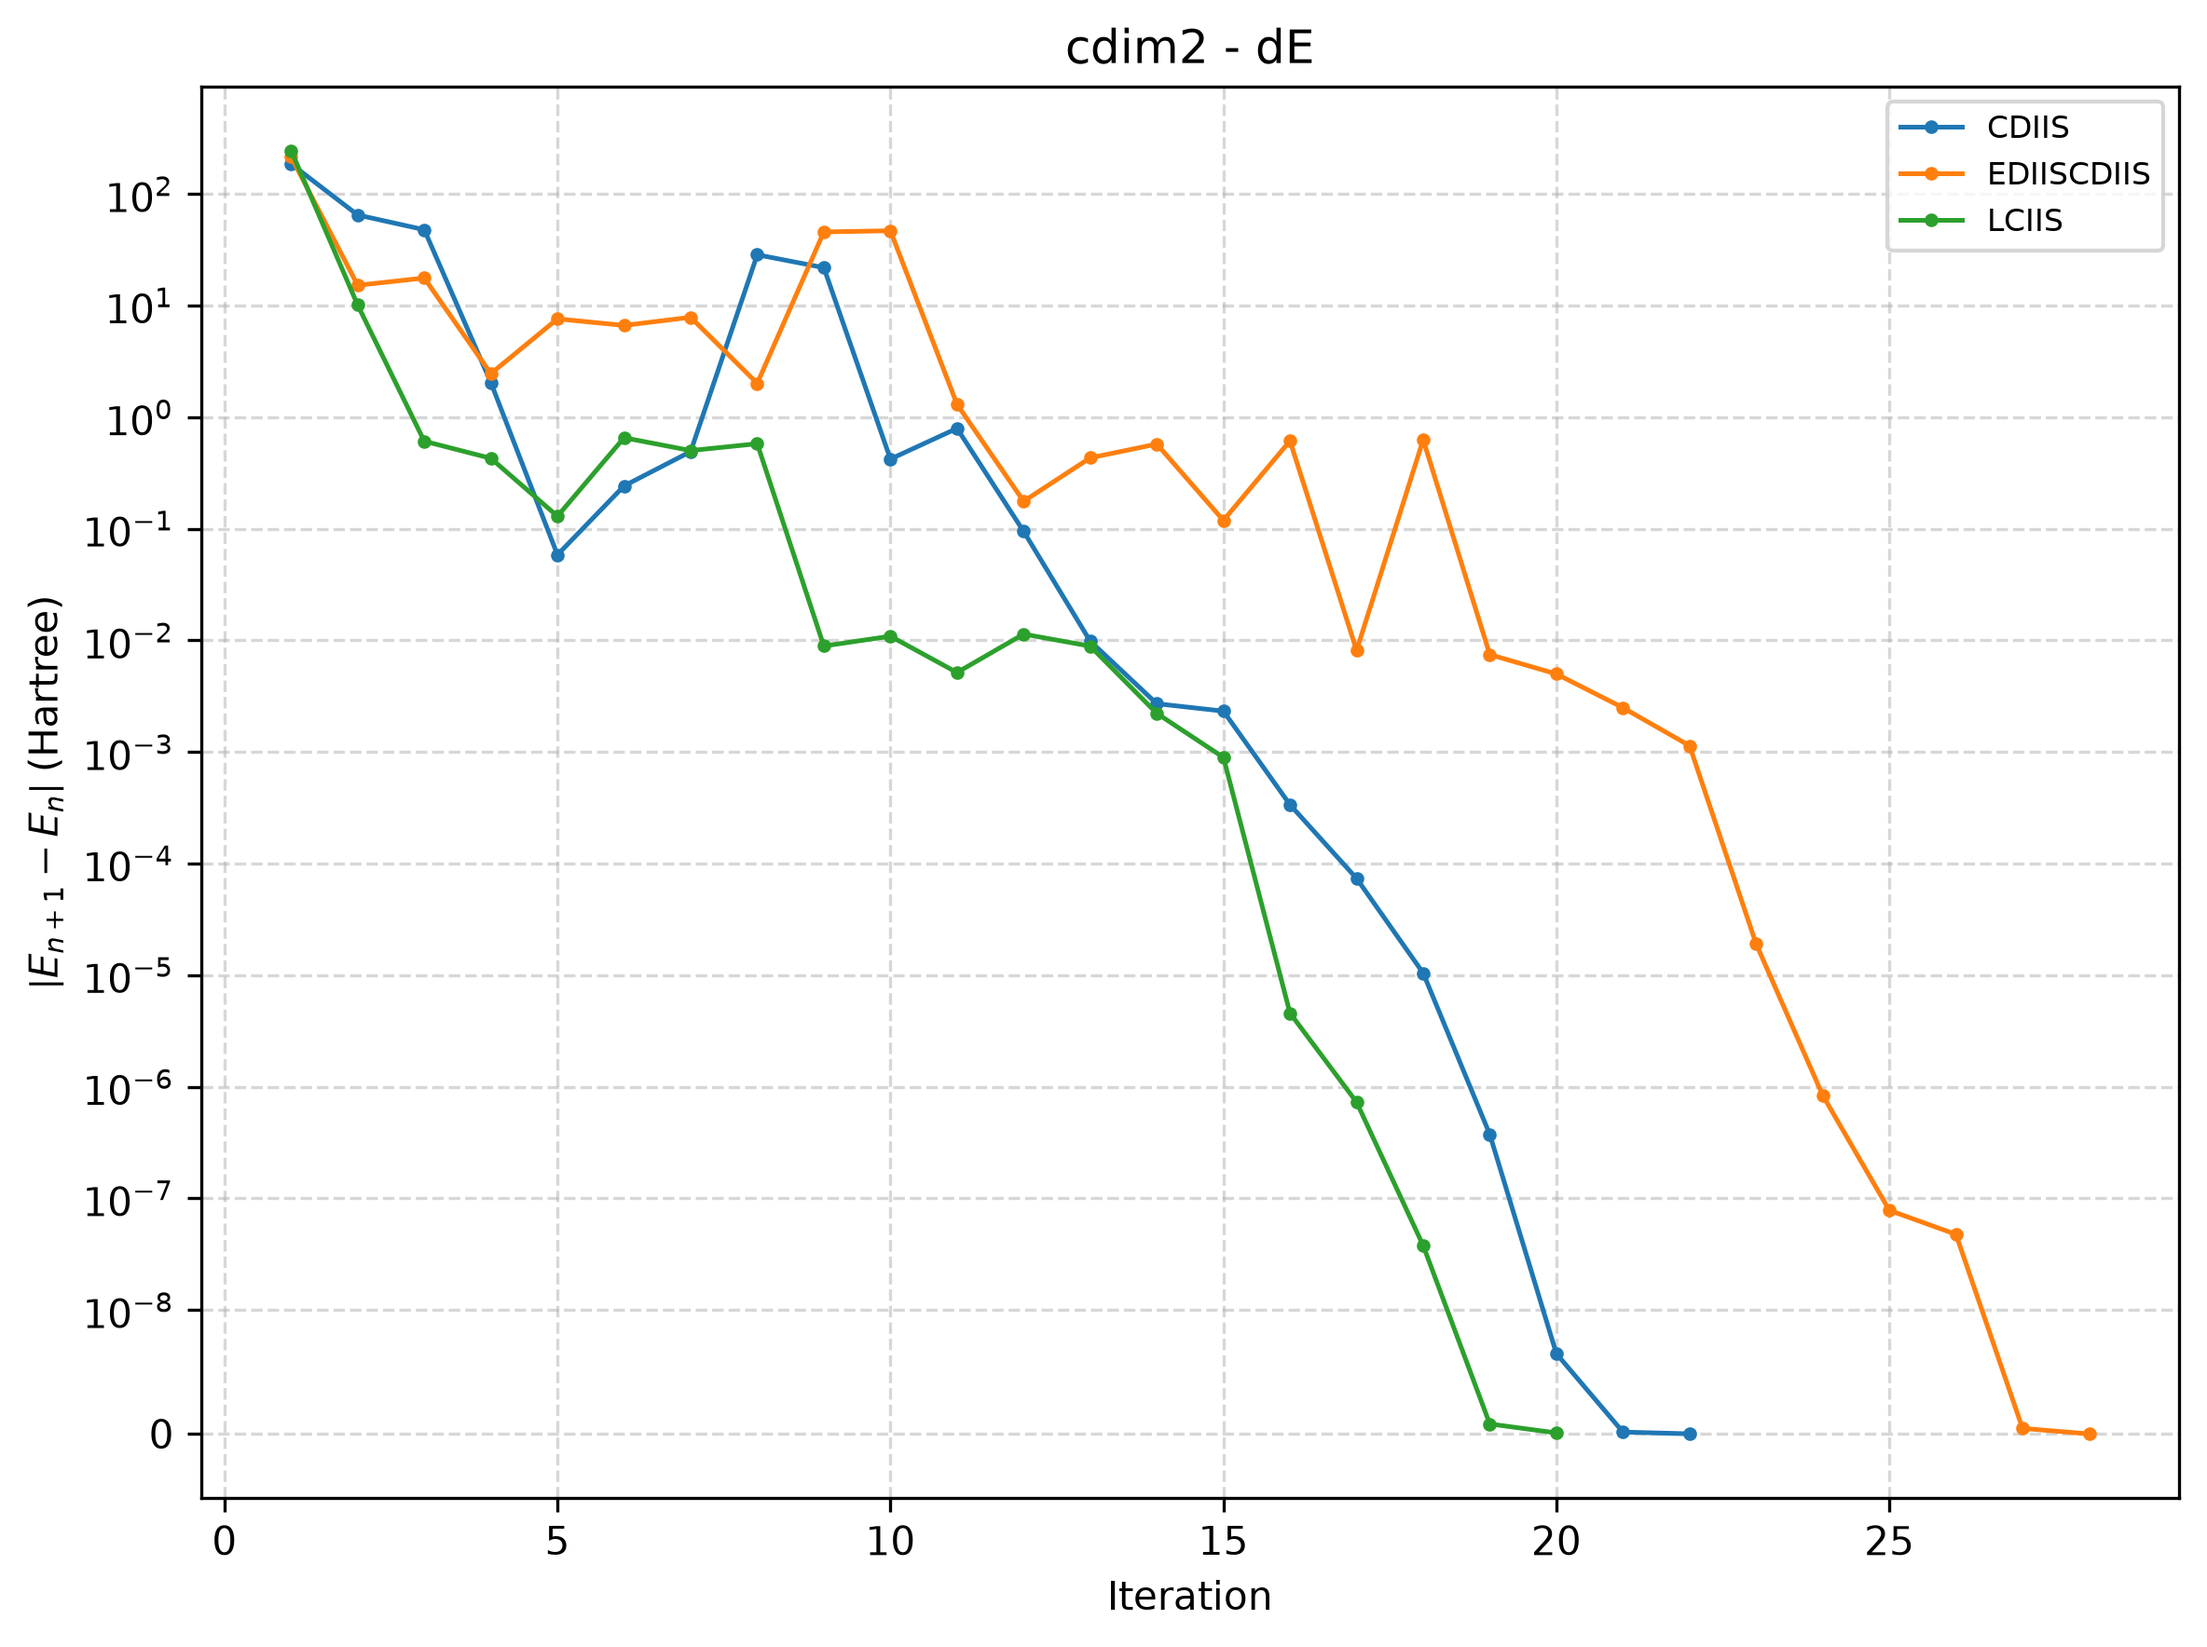
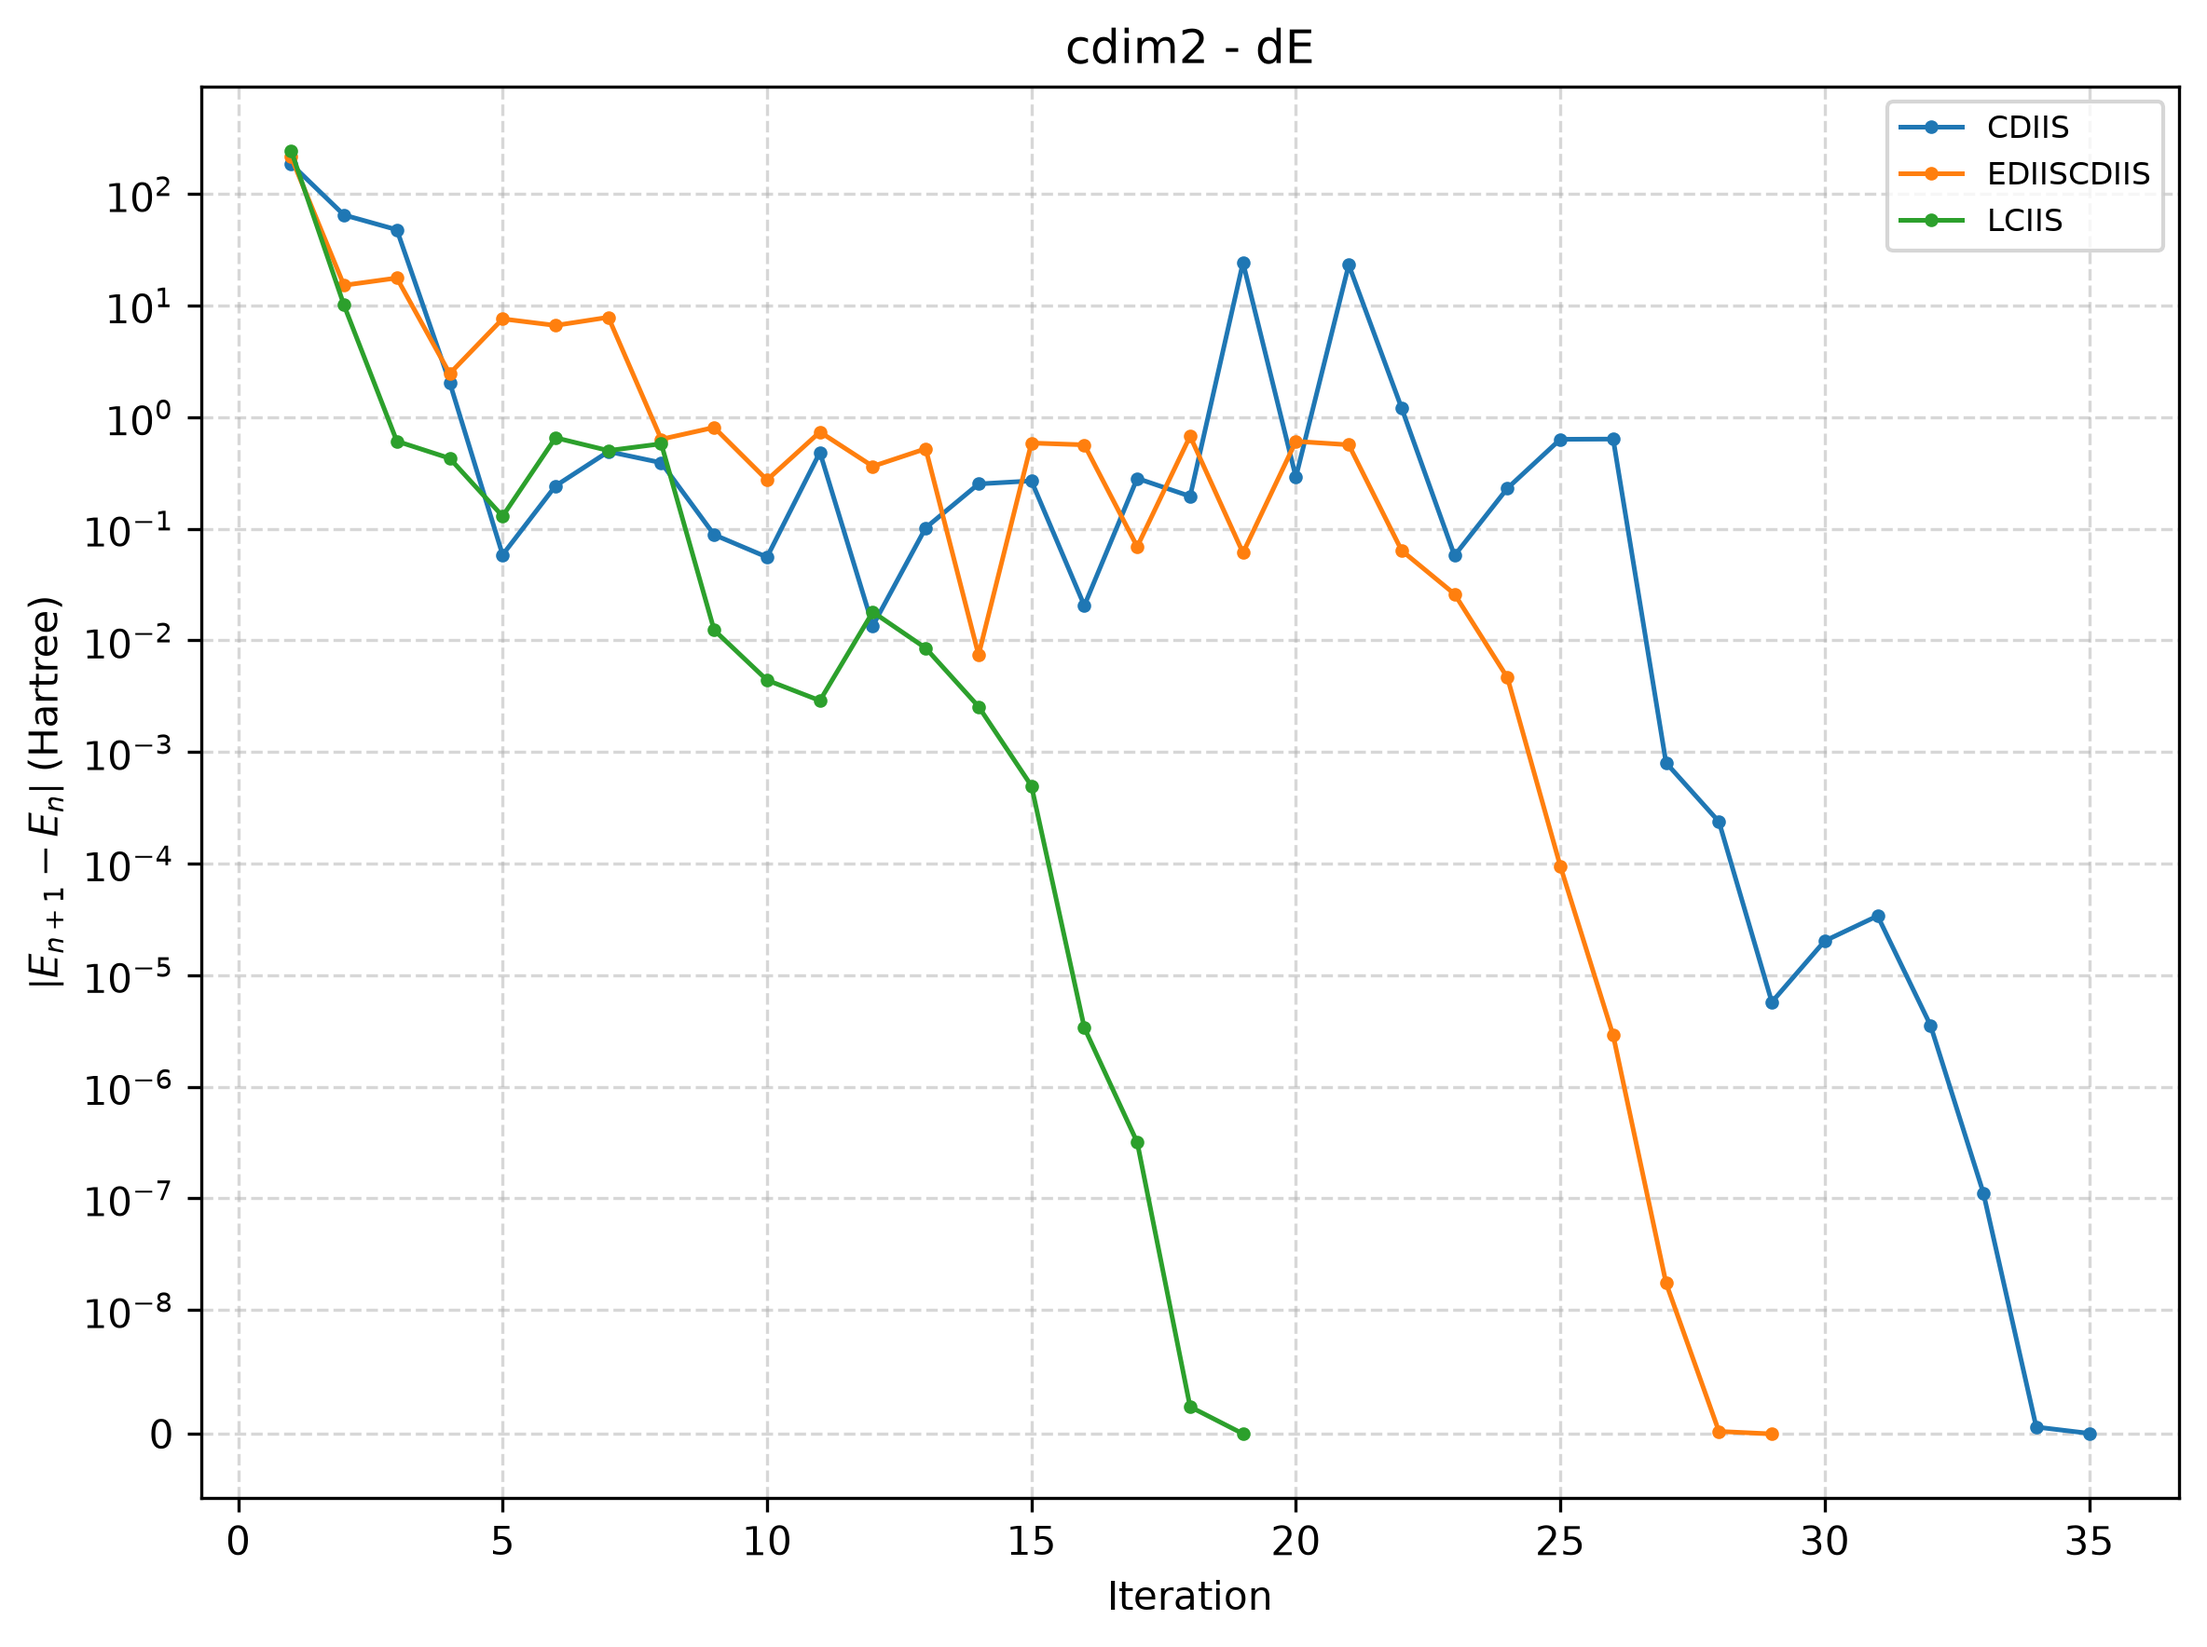
add more test cases

diff --git a/config.py b/config.py
@@ -9,7 +9,7 @@ DIIS_METHODS = [
 ]
 
 # DIIS history size
-DIIS_M = 8
+DIIS_M = 20
 
 # When to start DIIS (Iteration 0)
 DIIS_START = 0

diff --git a/README.md b/README.md
@@ -8,6 +8,7 @@ These include:
 
 | Molecule                         | Method / Basis        | Guess  | Source                | 
 | ---                              | ---                   | ---    | ---                   |
+| CN+                              | RHF/DZ                | Core   | [0]                   |
 | CH3CHO                           | UHF/6-31G(d)          | SAD    | [1] [2] [3] [4] [5]   |
 | CrC                              | RB3LYP/6-31G          | SAD    | [2] [3] [4] [5]       |
 | CdIm2                            | RB3LYP/3-21G          | Core   | [3] [4] [5]           |
@@ -18,6 +19,8 @@ These include:
 | Ru4CO(BS)                        | UB3LYP/LANL2DZ        | Triplet| [3] [4] [5]           |
 | Cr2                              | RHF/6-31G             | Core   | [1]                   |
 | N-Methyl-(2-nitrovinyl)amine (E) | RHF/6-31G(d)          | Core   | [1]                   |
+
+[0]: Pulay, P. (1980). Convergence acceleration of iterative sequences: The case of SCF iteration. *Chemical Physics Letters*, 73(2), 393–398.
 
 [1]: Cancès, É., & Le Bris, C. (2000). Can we outperform the DIIS approach for electronic structure calculations?. *International Journal of Quantum Chemistry*, 79(2), 82-90.
 
